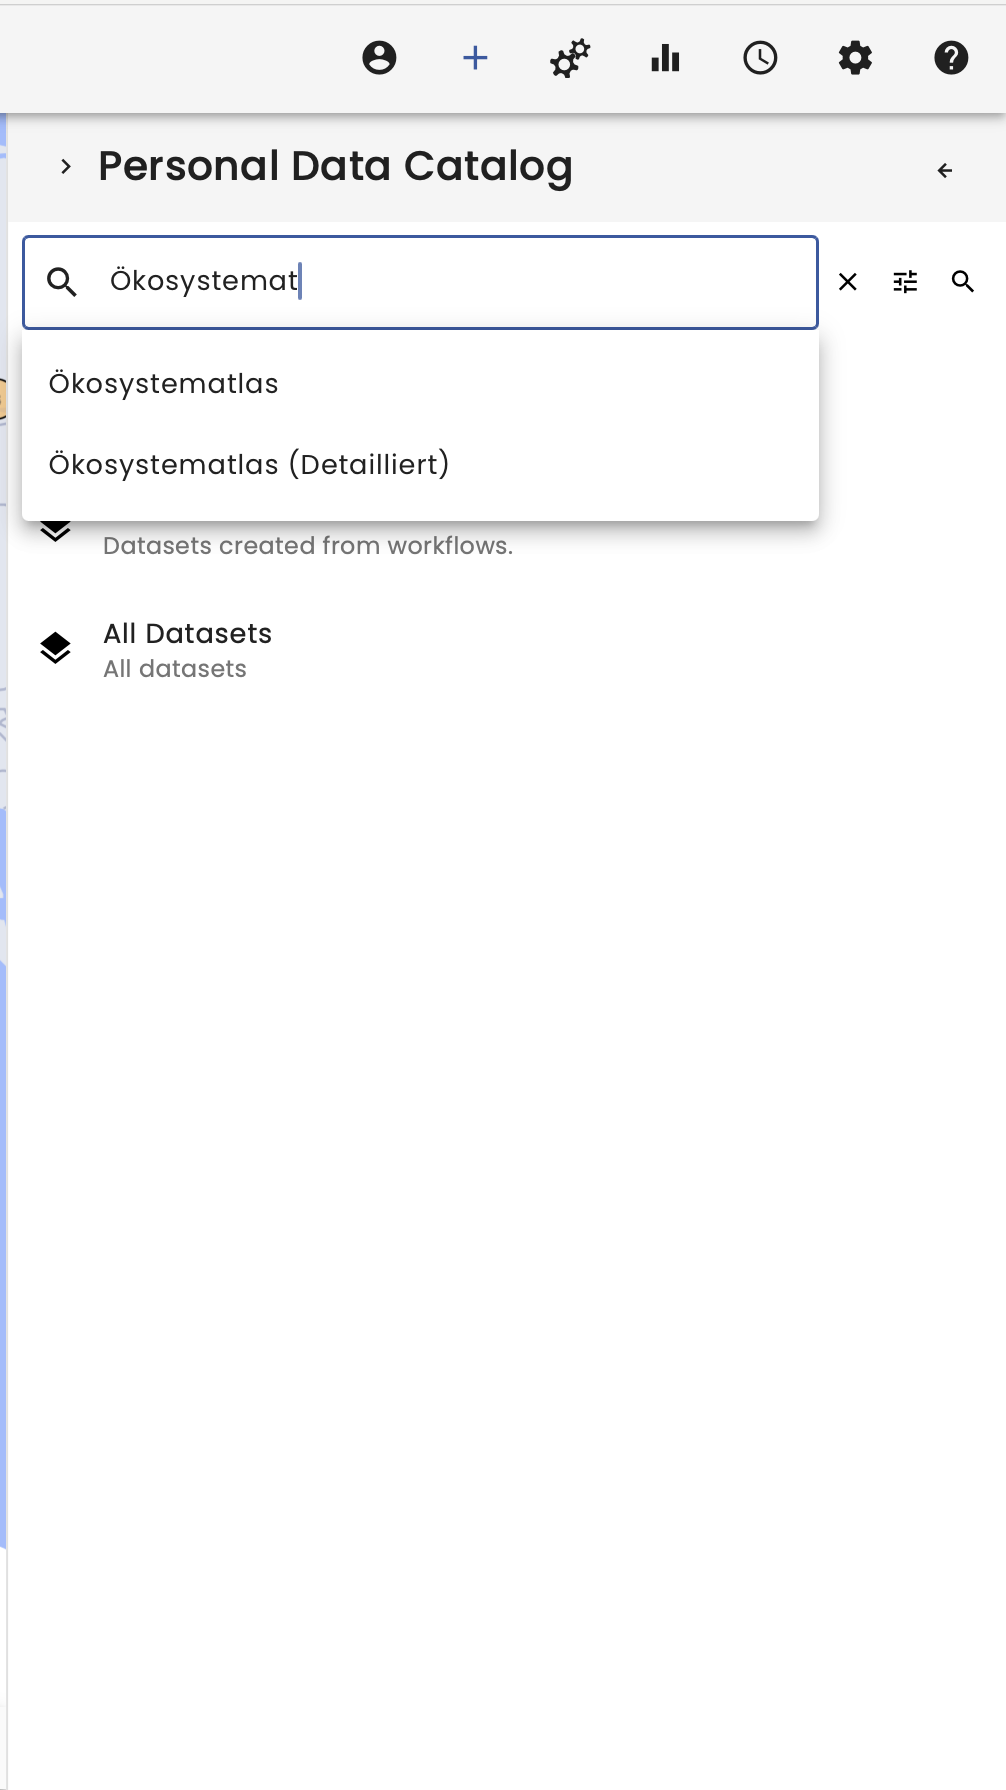
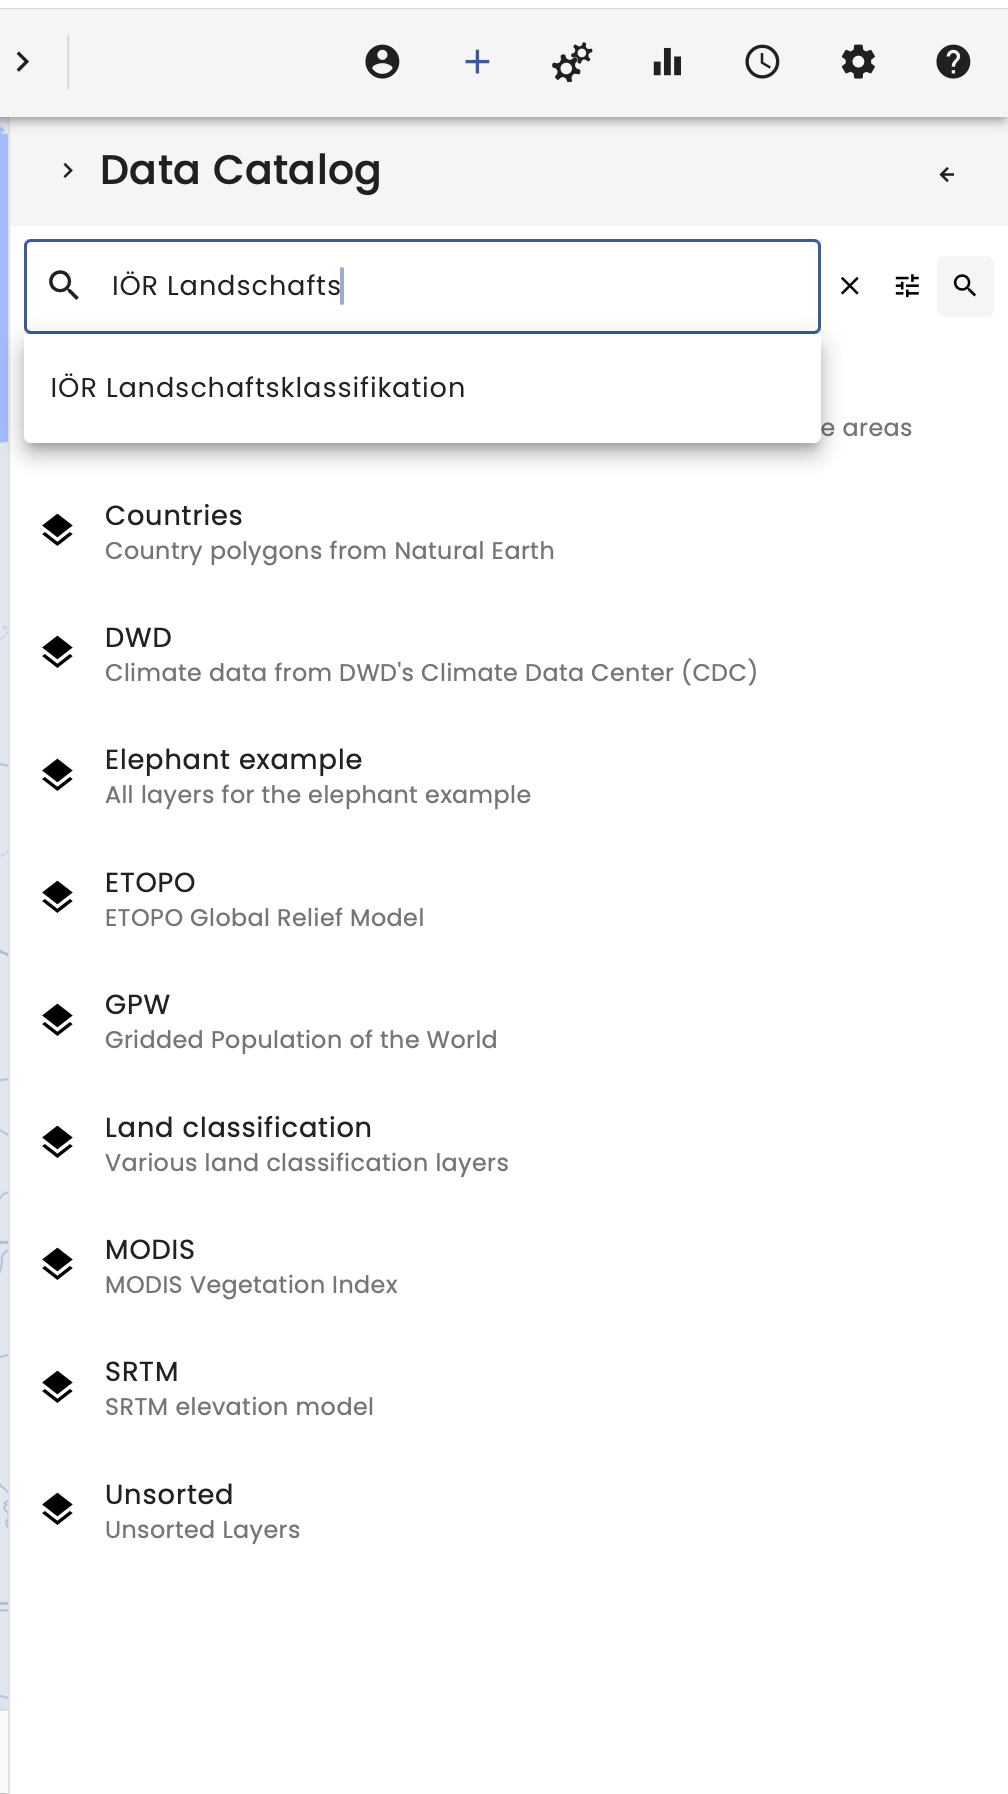
Updated texts and images to consider the update in the data structure and changes in the VAT

diff --git a/src/instructions/auf_dem_trockenen.md b/src/instructions/auf_dem_trockenen.md
@@ -12,7 +12,7 @@
 
 Welcome to the Dry Land Use Case.
 
-In this example, the GBIF occurrence data of *Calopteryx splendens* are clipped to the extent of Germany and merged with the land use classification from the Oekosystematlas as well as a time of average temperature provided by the WorldClim dataset.
+In this example, the GBIF occurrence data of *Calopteryx splendens* are clipped to the extent of Germany and merged with the land use classification from the IÖR land use classification as well as aggregating daily resolved average temperature data provided by the German weather service (DWD).
 
 <img src="images/auf_dem_trockenen_1.png" width="100%" height="auto" alt="Introduction image VAT overview">
 
@@ -28,27 +28,19 @@ For the spatial selection we also need the German border, which we found by sear
 
 <img src="images/auf_dem_trockenen_4.png" width="50%" height="auto" alt="Germany search">
 
-Next, for the link between the occurrence data and the average temperature, we search for the _Average Temperature_ dataset in the data catalogue.
+Next, for the link between the occurrence data and the average temperature, we search for the _Daily mean air temperature_ dataset in the data catalogue.
 
 <img src="images/auf_dem_trockenen_5.png" width="50%" height="auto" alt="Average temperature search">
 
-**Caution**: The _Average Temperature_ is a spatio-temporal dataset. Always check the spatial and temporal extent in the metadata.
+**Caution**: The _Daily mean air temperature_ is a spatio-temporal dataset. Always check the spatial and temporal extent in the metadata.
 
 <img src="images/auf_dem_trockenen_6.png" width="50%" height="auto" alt="Average temperature spatiotemporal extent">
 
-The _Average Temperature_ dataset covers the whole Earth and a time range from 1970/01/01 to 2000/12/31. To do this we need to change the time in the time menu at the top right.
+The *Daily mean air temperature* dataset covers Germany with a time range from 1951/01/01 to 2021/01/01 in a daily resolution. To see an effect on the data it is recommended to change the time in the time menu at the top right due to the high spatiotemporal resolution of the temperature data.
 
 <img src="images/auf_dem_trockenen_7.png" width="50%" height="auto" alt="Time menu">
 
-As the dataset does not look very attractive, we will change the colour palette of the raster data. This can be done by right-clicking on the layer and selecting _Edit Symbology_.
-
-<img src="images/auf_dem_trockenen_8.png" width="50%" height="auto" alt="Edit symbology button">
-
-In the symbology menu, scroll down to _Create colour table_, select a colour map such as _VIRIDIS_ or _MAGMA_, click the _Create colour table_ button and confirm with the _Apply button_ at the bottom of the symbology menu.
-
-<img src="images/auf_dem_trockenen_9.png" width="50%" height="auto" alt="Edit symbology menu">
-
-In order to link the occurrence data with the land use classification, it is also necessary to load the _Oekosystematlas_ by searching for it in the personal data catalogue. The personal data catalogue contains all datasets uploaded by the user as well as a section with _all datasets_, which also contains datasets not listed.
+In order to link the occurrence data with the land use classification, it is also necessary to load the _IÖR Landschaftsklassifikation_ by searching for it in the data catalogue.
 
 <img src="images/auf_dem_trockenen_10.png" width="50%" height="auto" alt="Oekosystematlas search">
 
@@ -58,7 +50,11 @@ First we use a _Point in Polygon Filter_ to restrict our occurrence data to Germ
 
 <img src="images/auf_dem_trockenen_11.png" width="50%" height="auto" alt="Point in Polygon filter">
 
-Next, we join the raster data to the vector data using the _Raster Vector Join Operator_, which takes the occurrence data as a vector and the Ecosystem Atlas and Mean Temperature as raster data.
+As the Daily mean air temperature has such a high temporal resolution we want to convert it into a more handable and more interpretable monthly time resolution using the _Temporal Raster Aggregation Operator_.  
+
+<img src="images/auf_dem_trockenen_8.png" width="50%" height="auto" alt="Raster Vector Join">
+
+Next, we join the raster data to the vector data using the _Raster Vector Join Operator_, which takes the occurrence data as a vector and the IÖR Landschaftsklassifikation and Monthly mean air temperature as raster data.
 
 <img src="images/auf_dem_trockenen_12.png" width="50%" height="auto" alt="Raster Vector Join">
 
@@ -70,11 +66,11 @@ The _Histogram_ operator can be used to visualise the distribution of occurrence
 
 <img src="images/auf_dem_trockenen_14.png" width="50%" height="auto" alt="Histogram">
 
-To visualise the classified data, it is recommended to use the _Class Histogram_ operator, which translates the Ecosystem Atlas numbers into class names using the metadata.
+To visualise the classified data, it is recommended to use the _Class Histogram_ operator, which translates the IÖR land classification numbers into class names using the metadata.
 
 <img src="images/auf_dem_trockenen_15.png" width="50%" height="auto" alt="Class histogram">
 
-The plots then show the distribution of occurrences of _Calopteryx splendens_ as a function, firstly, of the average temperature on 1 January 2000 and, secondly, of the land-use classification of the Ecosystematlas.
+The plots then show the distribution of occurrences of _Calopteryx splendens_ as a function, firstly, of the average temperature on 1 January 2000 and, secondly, of the land-use classification of the IÖR Landklassifikation. Now the time selection menu at the top can be used to observe the change between the observation and the temperature and land use classification over the course of the year. But please note, that the land classification does not change over time, only the species occurrences. 
 
 <img src="images/auf_dem_trockenen_16.png" width="100%" height="auto" alt="Overview Calopteryx splendens final">
 

diff --git a/src/instructions/canis_lupus_meets_felis_silvestris.md b/src/instructions/canis_lupus_meets_felis_silvestris.md
@@ -12,7 +12,7 @@
 
 Welcome to the *Canis lupus* meets *Felis silvestris* use case.
 
-In this example the GBIF occurrence data of *Canis lupus* and *Felis silvestris* are cut to the extent of Germany and linked to the land use classification of the Ecosystematlas.
+In this example the GBIF occurrence data of *Canis lupus* and *Felis silvestris* are cut to the extent of Germany and linked to the land use classification of the IÖR land use classification.
 
 <img src="images/canis_lupus_meets_felis_silvestris_1.png" width="100%" height="auto" alt="Introduction image VAT overview">
 
@@ -28,7 +28,7 @@ For the spatial selection we also need the German borders, which we found by sea
 
 <img src="images/canis_lupus_meets_felis_silvestris_4.png" width="50%" height="auto" alt="Germany search">
 
-In order to link the occurrence data with the land use classification, it is also necessary to load the _Oekosystematlas_ by searching for it in the personal data catalogue. The personal data catalogue contains all datasets uploaded by the user as well as a section with _all datasets_, which also contains datasets not listed.
+In order to link the occurrence data with the land use classification, it is also necessary to load the _IÖR Landschaftsklassifikation_ by searching for it in the data catalogue. 
 
 <img src="images/canis_lupus_meets_felis_silvestris_5.png" width="50%" height="auto" alt="Oekosystematlas search">
 
@@ -38,15 +38,15 @@ First we use a _Point in Polygon Filter_ to restrict our occurrence data to Germ
 
 <img src="images/canis_lupus_meets_felis_silvestris_6.png" width="50%" height="auto" alt="Point in Polygon Filter">
 
-Next, we join the raster data to the vector data using the _Raster Vector Join Operator_, which takes the occurrence data as a vector and the Ecosystem Atlas as raster data.
+Next, we join the raster data to the vector data using the _Raster Vector Join Operator_, which takes the occurrence data as a vector and the IÖR Landschaftsklassifikation as raster data.
 
 <img src="images/canis_lupus_meets_felis_silvestris_7.png" width="50%" height="auto" alt="Raster Vector Join">
 
-The result is that the vector data is spatially linked to the raster data by position. Therefore, a new column is added to the vector data table containing the information.
+The result is that the vector data is spatially linked to the raster data by position. Therefore, a new column is added to the vector data table containing the information. The float values are the result of the clustering calculating the mean of all integer encoded classes in classified data. This won't reflect in the downloaded data.
 
 <img src="images/canis_lupus_meets_felis_silvestris_8.png" width="100%" height="auto" alt="Data table Canis lupus oekosystematlas">
 
-To visualise the classified data, it is recommended to use the _Class Histogram_ operator, which translates the Ecosystem Atlas numbers into class names using the metadata.
+To visualise the classified data, it is recommended to use the _Class Histogram_ operator, which translates the IÖR Landschaftsklassifiation numbers into class names using the metadata.
 
 <img src="images/canis_lupus_meets_felis_silvestris_9.png" width="50%" height="auto" alt="Class histogram">
 
